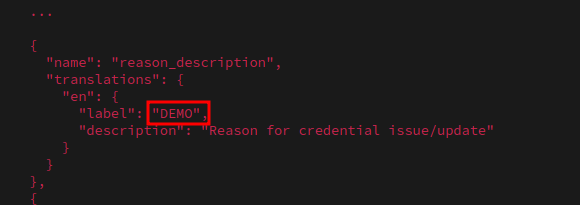
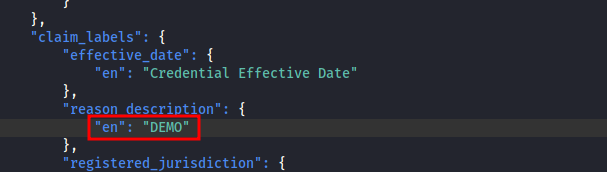
updated schema docs for credential schema

diff --git a/docs/Schema-changes.md b/docs/Schema-changes.md
@@ -1,8 +1,8 @@
-### Changes to Aries-vcr issuer schema
+### Changes to Aries VCR issuer schema
 
-The Aries-vcr application is undergoing changes to enhance user experience on applications such as Orgbook. The primary change to the Aries-vcr application is in the way that credential schemas are issued.  
+The Aries VCR application is undergoing changes to enhance user experience on applications such as Orgbook. The primary change to the Aries VCR application is in the way that credential schemas are issued.  
   
-Included below are a list of optional changes to credential schemas that issuers may be interested in making. For the purpose of clearly displaying how these changes are being used, we've provided examples of the credential changes in the new Orgbook site.
+Included below are a list of optional changes to credential schemas that issuers may be interested in making. For the purpose of clearly displaying how these changes are being used, we've provided examples of the credential changes in the new Orgbook site. You can find the code for the new Orgbook frontend [here](https://github.com/bcgov/orgbook-bc-client-vue).
 
 #### Credential title
 The credential title is the main attribute you want users to see when viewing a credential. An example of this would be the business number of a business number credential. See figure 1 for an example.
@@ -11,15 +11,15 @@ The credential title is the main attribute you want users to see when viewing a 
 *Figure 1: Schema label and credential title*
   
 #### Highlighted attributes
-Highlighted attributes are secondary credential attributes that you believe would be important to a user viewing a specific credential. An example of this would be a Cannabis marketing license credential. A user would likely be interested in knowing the effective and expiry date of the credential, but probably would not care much about the issue date since it does not have anything to do with the validity of the credential. Aries-vcr allows issuers to include only relevant credential attributes in their credential displays. See figure 2 for an example.  
+Highlighted attributes are secondary credential attributes that you believe would be important to a user viewing a specific credential. An example of this would be a Cannabis marketing license credential. A user would likely be interested in knowing the effective and expiry date of the credential, but probably would not care much about the issue date since it does not have anything to do with the validity of the credential. Aries VCR allows issuers to include only relevant credential attributes in their credential displays. See figure 2 for an example.  
 
 ![](./assets/highlighted_attributes.png)  
 *Figure 2: Highlighted attributes*
 
 #### Schema labels
-Aries-vcr has added the functionality to specify the name of a credential schema in a multilingual format. These schema names appear as the title of the credential and let users know what type of credential they are viewing. This schema label is optional and is only needed if you plan on supporting multi language use. If no schema label is defined, a good fallback is to use the credential type description displayed in the same way as a schema label. The new version of Orgbook takes this approach. See figure 1 for example of a schema label in Orgbook.
+Aries VCR has added the functionality to specify the name of a credential schema in a multilingual format. These schema names appear as the title of the credential and let users know what type of credential they are viewing. This schema label is optional and is only needed if you plan on supporting multi language use. If no schema label is defined, a good fallback is to use the credential type description displayed in the same way as a schema label. The new version of Orgbook takes this approach. See figure 1 for example of a schema label in Orgbook.
   
-#### Aries-vcr defaults
+#### Aries VCR defaults
 ##### Credential title:
 If the credential title is not specified in a credential schema, or there is no claim label to match the credential title, then applications such as Orgbook may instead use the registration number of the entity holding the credential. See figure 3 for an example  
 ![](./assets/default_cred_title.png)  
@@ -31,132 +31,144 @@ If no highlighted attributes are specified, or there are no claim labels to matc
 *Figure 3.1: Default credential title and highlighted attributes*
 
 #### Recommended changes to schema
-To incorporate these optional changes, Aries-vcr recommends reviewing the new schema attributes and how to add them to your credential schema in the section below.
+To incorporate these optional changes, Aries VCR recommends reviewing the new schema attributes and how to add them to your credential schema in the section below. The following example JSON snippet is from the `issuer_registration.credential_types[item]` section of the registration.registries.ca schema
 
 ~~~
 {
-  "schema_name": "registration.registries.ca",
-  "schema_version": "1.0.44",
-  "attributes": [
-    "registration_id",
-    "registration_date",
+  "claim_descriptions": {
+    "effective_date": {
+      "en": "Date Credential is effective"
+    },
+    "entity_name": {
+      "en": "The legal name of entity"
+    },
+
     ...
-    "reason_description",
-    "expiry_date"
-  ],
-  "metadata": {
-    "topic": [
-      {
-        "name": "registration_id",
-        "topic_type": "registration.registries.ca"
-      }
-    ],
-    "highlighted_attributes":[
-        "reason_description"
-      ],
-    "credential_title":"registration_id",
-    "cardinality": [
-      "registration_id"
-    ],
-    "date_fields": {
-      "effective_date": "effective_date",
-      "revoked_date": "expiry_date",
-      "other_date_fields": [
-        "registration_date",
-        "entity_name_effective",
-        "entity_name_assumed_effective",
-        "entity_status_effective"
+
+    "registration_renewal_effective": {
+      "en": "Date the registration renewal became effective"
+    }
+  },
+  "claim_labels": {
+    "effective_date": {
+      "en": "Credential Effective Date"
+    },
+    "entity_name": {
+      "en": "Name"
+    },
+    
+    ...
+
+    },
+    "registration_renewal_effective": {
+      "en": "Registration Renewal Effective"
+    }
+  },
+  "credential": {
+    "effective_date": {
+      "from": "claim",
+      "input": "effective_date"
+    },
+    "inactive": {
+      "from": "claim",
+      "input": "entity_status",
+      "processor": [
+        "bcgov.entity_status.is_historical"
       ]
     },
-    "address_fields": [],
-    "search_fields": [
-      "registration_id",
-      "entity_name"
-    ],
-    "labels": {
-      "schema": {
-        "en": "Registration Credential"
-      },
-      "schema_description":{
-      	"en": "Registration Description"
-      },
-      "attributes": [
-        {
-          "name": "registration_id",
-          "translations": {
-            "en": {
-              "label": "Registration ID",
-              "description": "Registration/Incorporation Number or Identifying Number"
-            }
-          }
-        },
-		
-        ...
-		
-        {
-          "name": "reason_description",
-          "translations": {
-            "en": {
-              "label": "DEMO",
-              "description": "Reason for credential issue/update"
-            }
-          }
-        },
-        {
-          "name": "expiry_date",
-          "translations": {
-            "en": {
-              "label": "Credential Expiry Date",
-              "description": "Date Credential expired"
-            }
-          }
-        }
-      ]
+    "revoked_date": {
+      "from": "claim",
+      "input": "expiry_date"
     }
-  }
+  },
+  "credential_def_id": "6qnvgJtqwK44D8LFYnV5Yf:3:CL:10:default",
+  "endpoint": "/bcreg/incorporation",
+  "endpoints": {
+    "en": "/bcreg/incorporation"
+  },
+  "labels": {
+    "en": "registration.registries.ca"
+  },
+  "logo_b64": null,
+  "mapping": [
+    {
+      "fields": {
+        "text": {
+          "from": "claim",
+          "input": "entity_name"
+        },
+        "type": {
+          "from": "value",
+          "input": "entity_name"
+        }
+      },
+      "model": "name"
+    },
+
+    ...
+
+  ],
+  "name": "registration.registries.ca",
+  "schema": "registration.registries.ca",
+  "topic": [
+    {
+      "labels": {
+        "en": "Registration"
+      },
+      "source_id": {
+        "from": "claim",
+        "input": "registration_id"
+      },
+      "type": {
+        "from": "value",
+        "input": "registration.registries.ca"
+      }
+    }
+  ],
+  "version": "1.0.42"
 }
 ~~~
 *Figure 4: Example registration schema*
 
 ##### Setting the schema label:
-In order to set the schema label add the following JSON object to `metadata->labels`
+In order to set the schema label add the following JSON object to `issuer_registration.credential_types[item]`
 ~~~
-"schema": {
+"labels": {
 	"en": "<YOUR SCHEMA NAME, Example: Registration >"
-},
-"schema_description":{
-	"en": "<YOUR SCHEMA DESCRIPTION, Example: Credential proving an entity's registration>"
-},
+}
 ~~~
 
 
 ##### Setting the credential title and highlighted attributes:
-To set the credential title and highlighted attributes add the following JSON object to `metadata`:
-~~~
-"highlighted_attributes":[
-	"<YOUR HIGHLIGHTED ATTRIBUTE KEY 1>",
-	"<YOUR HIGHLIGHTED ATTRIBUTE KEY 2>"
-  ],
-"credential_title":"<YOUR CREDENTIAL TITLE KEY>",
-~~~
-highlighted attribute keys and the credential title key refer to the attribute names on each of the attributes in the schema. An example is shown in figure 4.1. Highlighted attributes will appear on credential cards in the order they're listed on the schema. Example: attribute #1 will appear above attribute #2 on this credential card.
+To set the credential title and highlighted attributes setup Aries VCR issuer controller and add the following YAML object to `issuers.myorg.credential_types[index]` in `services.yaml`. Figure 4.1 shows where to insert the yaml object into the services file. Make sure to do this for each 
 
-![](./assets/attribute_key.png)
-*Figure 4.1: Example attribute key*
+![](./assets/yaml_meta_insert.png)  
+*Figure 4.1: Example insertion point*
+
+~~~
+highlighted_attributes:
+- "<YOUR HIGHLIGHTED ATTRIBUTE KEY 1>"
+- "<YOUR HIGHLIGHTED ATTRIBUTE KEY 2>"
+credential_title:"<YOUR CREDENTIAL TITLE KEY>",
+~~~
+highlighted attribute keys and the credential title key refer to the attribute names on each of the attributes in the schema. An example is shown in figure 4.2. Highlighted attributes will appear on credential cards in the order they're listed on the schema. Example: attribute #1 will appear above attribute #2 on this credential card.
+
+![](./assets/attribute_key.png)  
+*Figure 4.2: Example attribute key*
 
 ##### Setting the credential title and highlighted attribute labels:
-Attribute labels appear to the left of an attribute value on a credential card. The attribute label describes the attribute value being displayed on the credential card. See figure 4.2 for an example.
+Attribute labels appear to the left of an attribute value on a credential card. The attribute label describes the attribute value being displayed on the credential card. See figure 4.3 for an example.
 
-![](./assets/attribute_label_value.png)
-*Figure 4.2: Attribute label and value*
+![](./assets/attribute_label_value.png)  
+*Figure 4.3: Attribute label and value*
 
-To set the attribute label simply edit the claim label for the attribute in question. To do so, in `metadata->labels->attributes->translations->[locale]->label` change the `name` field to your desired label as seen in figure 4.3 where we change the `reason_description` from `Reason` to `DEMO`. See figure 4.4 for the resulting change in Orgbook
+To set the attribute label simply edit the claim label for the attribute in question. To do so in your credential schema, go to `issuer_registration.claim_labels.<YOUR ATTRIBUTE KEY>.[locale]` change the field to your desired label as seen in figure 4.4 where we change the `reason_description` from `Reason` to `DEMO`. See figure 4.5 for the resulting change in Orgbook
 
 ![](./assets/reason_to_demo.png)  
-*Figure 4.3: Change from reason to demo*
+*Figure 4.4: Change from reason to demo*
 
 ![](./assets/reason_to_demo_result.png)  
-*Figure 4.4: resulting change in Orgbook*
+*Figure 4.5: resulting change in Orgbook*
 
 
 

diff --git a/docs/README.md b/docs/README.md
@@ -3,27 +3,27 @@
 
 # Table of Contents <!-- omit in toc -->
 
-- [Introduction](##introduction)
-- [Before You Start](##before-you-start)
-- [Repositories](##before-you-start)
-- [Prerequisites](##prerequisites)
-- [Running a VON - Verified Organizations Network](##running-a-von---verified-organizations-network)
-  - [Running on Docker Locally](###running-the-network-on-docker-locally)
-  - [Stopping the Network](###stopping-the-network)
-- [Aries VCR](##aries-vcr)
-  - [Building the Images](###building-the-images)
-  - [Starting the Project](###starting-the-project)
-  - [Stopping the Project](###stopping-the-project)
-  - [Using the Application](###using-the-application)
-  - [Start-up Orchestration](###start--up-orchestration)
-- [Aries VCR Issuer Controller](##aries-vcr-issuer-controller)
-  - [Initialize the Project](###initialize-the-project)
-  - [Register the DID](###register-the-did)
-  - [Build and Start the Project](###build-and-start-the-project)
-  - [Updates to Credential Schema](###updates-to-credential-schema)
-  - [Issuing Credentials](###issuing-credentials)
-- [Aries VCR Client](###aries-vcr-client)
-- [Troubleshooting Guides](##troubleshooting-guides)
+- [Introduction](#introduction)
+- [Before You Start](#before-you-start)
+- [Repositories](#before-you-start)
+- [Prerequisites](#prerequisites)
+- [Running a VON - Verified Organizations Network](#running-a-von---verified-organizations-network)
+  - [Running on Docker Locally](#running-the-network-on-docker-locally)
+  - [Stopping the Network](#stopping-the-network)
+- [Aries VCR](#aries-vcr)
+  - [Building the Images](#building-the-images)
+  - [Starting the Project](#starting-the-project)
+  - [Stopping the Project](#stopping-the-project)
+  - [Using the Application](#using-the-application)
+  - [Start-up Orchestration](#start--up-orchestration)
+- [Aries VCR Issuer Controller](#aries-vcr-issuer-controller)
+  - [Initialize the Project](#initialize-the-project)
+  - [Register the DID](#register-the-did)
+  - [Build and Start the Project](#build-and-start-the-project)
+  - [Updates to Credential Schema](#updates-to-credential-schema)
+  - [Issuing Credentials](#issuing-credentials)
+- [Aries VCR Client](#aries-vcr-client)
+- [Troubleshooting Guides](#troubleshooting-guides)
 
 ## Introduction
 
@@ -208,7 +208,7 @@ The DID is located in the `aries-vcr-issuer-controller/docker/manage` file on li
 Navigate to the docker folder in the project. Run: `./manage build` to build all the necessary containers. Finally run `./manage start` to initialize the project.
 
 ### Updates to Credential Schema
-Aries-vcr has undergone updates to the issuer credential schema. See the latest updates and how to apply them [here](Schema-changes.md)
+Aries VCR has undergone updates to the issuer credential schema. See the latest updates and how to apply them [here](Schema-changes.md).
 
 ### Issuing Credentials
 
